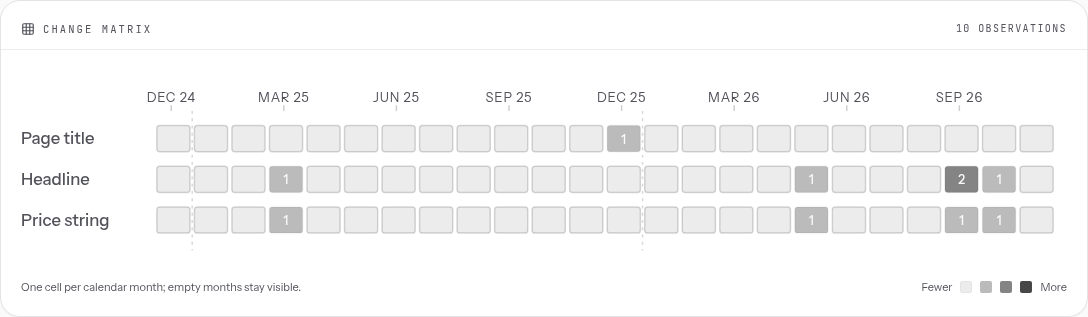
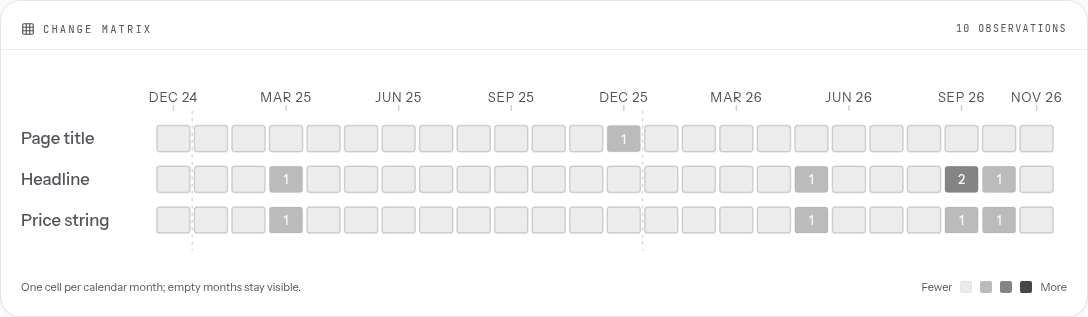
fix: pending source lanes show reading, not an empty result
Address the v0.7 review HOLD:
- before /api/sources resolves, Arquivo.pt and Hacker News are badged reading;
  no rows is reserved for a completed empty provider read
- do not cache a source response containing an unavailable lane, so a transient
  outage is retried on the next open
- Arquivo uses manual redirects; its count is unique rows inspected and the
  provider estimate stays in the note
- matrix labels are cell-centred and include the newest column
- HN chart covers 25 calendar months so bars sum to the two-year total
- fix story pluralisation; document saved-report source freshness

189 tests; axe 0.

diff --git a/src/components/SourcesBoard.tsx b/src/components/SourcesBoard.tsx
@@ -42,6 +42,11 @@ const statusCopy: Record<SourceStatus, { label: string; variant: 'good' | 'outli
   unavailable: { label: 'unread', variant: 'warn' },
 }
 
+const pendingStatus: { label: string; variant: 'good' | 'outline' | 'warn' } = {
+  label: 'reading',
+  variant: 'outline',
+}
+
 function Lane({
   icon,
   title,
@@ -105,7 +110,7 @@ export function SourcesBoard({ timeline }: { timeline: Timeline }) {
 
   const mentions = sources?.mentions
   const archives = sources?.archives
-  const mentionMonths = lastMonths(24)
+  const mentionMonths = lastMonths(25)
   const counts = new Map(mentions?.months.map((month) => [month.month, month.count]) ?? [])
   const peak = Math.max(1, ...mentionMonths.map((month) => counts.get(month) ?? 0))
   const adLinks = adLibraryLinks(timeline.domain)
@@ -122,7 +127,8 @@ export function SourcesBoard({ timeline }: { timeline: Timeline }) {
           </h3>
         </div>
         <p className="max-w-md text-right text-[11px] leading-relaxed text-muted-foreground">
-          Each lane is read separately. A missing answer stays unread — never a zero.
+          Each lane is read separately. A missing answer stays unread — never a zero. Lanes are
+          checked now; only the Wayback timeline is frozen in a saved report.
         </p>
       </div>
 
@@ -149,7 +155,7 @@ export function SourcesBoard({ timeline }: { timeline: Timeline }) {
         <Lane
           icon={<Globe2 className="size-3.5" />}
           title="Arquivo.pt"
-          status={archives ? statusCopy[archives.status] : failed ? statusCopy.unavailable : statusCopy.empty}
+          status={archives ? statusCopy[archives.status] : failed ? statusCopy.unavailable : pendingStatus}
           footer={
             <p className="text-[10.5px] leading-snug text-muted-foreground">
               {archives?.note ?? (failed ? 'Second archive check did not finish.' : 'Reading a second public archive…')}
@@ -185,7 +191,7 @@ export function SourcesBoard({ timeline }: { timeline: Timeline }) {
         <Lane
           icon={<MessagesSquare className="size-3.5" />}
           title="Hacker News"
-          status={mentions ? statusCopy[mentions.status] : failed ? statusCopy.unavailable : statusCopy.empty}
+          status={mentions ? statusCopy[mentions.status] : failed ? statusCopy.unavailable : pendingStatus}
           footer={
             <p className="text-[10.5px] leading-snug text-muted-foreground">
               {mentions?.note ?? (failed ? 'Public-discussion check did not finish.' : 'Reading public story titles…')}
@@ -201,7 +207,7 @@ export function SourcesBoard({ timeline }: { timeline: Timeline }) {
                 {mentionMonths.map((month) => {
                   const count = counts.get(month) ?? 0
                   return (
-                    <div key={month} className="flex-1" title={`${shortMonth(month)}: ${count} story${count === 1 ? '' : 's'}`}>
+                    <div key={month} className="flex-1" title={`${shortMonth(month)}: ${count} ${count === 1 ? 'story' : 'stories'}`}>
                       <div
                         className={count > 0 ? 'w-full rounded-t-[2px] bg-foreground/55' : 'w-full rounded-t-[2px] bg-border'}
                         style={{ height: `${count > 0 ? Math.max(5, (count / peak) * 44) : 2}px` }}
@@ -215,8 +221,9 @@ export function SourcesBoard({ timeline }: { timeline: Timeline }) {
                 <span>{shortMonth(mentionMonths[mentionMonths.length - 1])}</span>
               </div>
               <p className="mt-2 text-[10px] leading-snug text-muted-foreground">
-                Monthly count; bars sum to {mentions.total} across {mentions.months.length} month
-                {mentions.months.length === 1 ? '' : 's'} with at least one story.
+                Monthly count over the last 25 calendar months; bars sum to {mentions.total} across{' '}
+                {mentions.months.length} month{mentions.months.length === 1 ? '' : 's'} with at
+                least one story.
               </p>
             </>
           ) : (

diff --git a/server/arquivo.ts b/server/arquivo.ts
@@ -61,7 +61,7 @@ export async function buildArquivoInfo(
     const response = await fetchImpl(url.toString(), {
       signal: controller.signal,
       headers: { 'user-agent': USER_AGENT },
-      redirect: 'follow',
+      redirect: 'manual',
     })
     if (!response.ok) {
       return empty('unavailable', `Arquivo.pt answered ${response.status}. This lane is unread, not zero.`)
@@ -97,7 +97,7 @@ export async function buildArquivoInfo(
     if (unique.length === 0) {
       return empty(
         'empty',
-        'Arquivo.pt lists no captures for this host. This lane is empty, not proof the page never existed.',
+        'Arquivo.pt lists no captures for this exact URL. This lane is empty, not proof the page never existed.',
       )
     }
 

diff --git a/tests/sources.test.ts b/tests/sources.test.ts
@@ -50,4 +50,15 @@ describe('buildSources', () => {
     expect(report.mentions.total).toBe(1)
     expect(report.archives.count).toBe(1)
   })
+
+  it('isolates a failed Hacker News lane from a readable archive lane', async () => {
+    const failing: FetchLike = async (url) => {
+      if (url.includes('hn.algolia.com')) throw new Error('HN down')
+      return fake(url)
+    }
+    const report = await buildSources('basecamp.com/pricing', { fetchImpl: failing })
+    expect(report.mentions.status).toBe('unavailable')
+    expect(report.archives.status).toBe('read')
+    expect(report.mentions.note).toMatch(/unread, not zero/)
+  })
 })

diff --git a/src/components/ChangeMatrix.tsx b/src/components/ChangeMatrix.tsx
@@ -60,8 +60,8 @@ export function ChangeMatrix({ captures, changes }: { captures: Capture[]; chang
               >
                 <title>Field changes by calendar month</title>
                 {matrix.months.map((month, index) => {
-                  if (index % 3 !== 0) return null
-                  const x = LABEL_W + index * slot + cellW / 2
+                  if (index % 3 !== 0 && index !== matrix.months.length - 1) return null
+                  const x = LABEL_W + index * slot + 1.5 + cellW / 2
                   return (
                     <g key={`label-${month.key}`}>
                       <text

diff --git a/server/api.ts b/server/api.ts
@@ -289,7 +289,9 @@ export function createApi(options: ApiOptions = {}) {
             fetchImpl: buildOptions.fetchImpl,
             timeoutMs: buildOptions.timeoutMs,
           })
-          remember(sourceCache, key, JSON.stringify(sources), cacheSize)
+          if (sources.mentions.status !== 'unavailable' && sources.archives.status !== 'unavailable') {
+            remember(sourceCache, key, JSON.stringify(sources), cacheSize)
+          }
           res.setHeader('x-cache', 'miss')
           send(res, 200, sources, { 'cache-control': 'public, max-age=300' })
         } catch (error) {

diff --git a/docs/SPEC.md b/docs/SPEC.md
@@ -39,7 +39,7 @@ When I need to show what a competitor changed on a public page, I want a dated l
 - **Monthly price range:** one bar per calendar month in which monthly (`/mo`, `/month`) price strings were read. The x-axis keeps one slot per month, so empty months are visible gaps. Each bar is the min–max of those strings; annual, one-time and per-seat amounts are excluded. A triangle above the plot marks a month with a price-change row. With fewer than two such months the chart is not rendered.
 - **Change matrix:** one cell per field (`title`, `headline`, `price`) per calendar month, baseline excluded. Empty months stay visible. Shade encodes the number of observations in that field/month, not a price, a trend or a growth rate.
 - **Evidence lanes:** independent public lanes for Internet Archive (dated page evidence), Arquivo.pt (second archive index), Hacker News (public stories whose submitted URL host matches the target), sitemap (page count), and ad libraries (manual links). A lane is `read`, `no rows` or `unread`; an unavailable lane is never a zero. Only the Internet Archive lane feeds the dated changes.
-- **Mentions chart:** monthly count of matched HN stories over the last 24 months, with the top stories linked. It is public discussion, not a truth score or a complete count.
+- **Mentions chart:** monthly count of matched HN stories over the last 25 calendar months, with the top stories linked. It is public discussion, not a truth score or a complete count.
 - **Archived page view:** an opt-in sandboxed iframe of the selected capture's `web.archive.org` URL. It is a rendering of archived HTML, not a pixel screenshot, and creates no new claim. No server-side browser, no screenshot service, no proxying.
 - **Ad libraries:** four external, pre-filled links to public ad libraries (Meta, Google, TikTok, LinkedIn). The server never fetches them. They are not evidence rows and do not imply spend. There is no free official API for general US commercial ads; an optional licensed provider is the only future automatic path.
 - **Citation:** coverage window, captures read, field changes (baseline excluded), access date, source link.
@@ -119,7 +119,7 @@ When I need to show what a competitor changed on a public page, I want a dated l
 | Change matrix | `tests/changeMatrix.test.ts` (2 tests) |
 | HN link-match lane | `tests/mentions.test.ts` (3 tests) |
 | Arquivo.pt index lane | `tests/arquivo.test.ts` (2 tests) |
-| Source-lane router | `tests/sources.test.ts` (1 test) |
+| Source-lane router | `tests/sources.test.ts` (2 tests) |
 | Archived URL guard | `tests/archiveUrl.test.ts` (2 tests) |
 | Ad links | `tests/adlinks.test.ts` (3 tests) |
 | Citation text | `tests/citation.test.ts` (2 tests) |

diff --git a/CHANGELOG.md b/CHANGELOG.md
@@ -27,8 +27,7 @@ separate from the context.
   with explicit statuses and notes.
 - **Change matrix.** A calendar heatmap of page-title, headline and price-string
   observations by month. The baseline is excluded; empty months stay visible.
-- **Mentions chart.** Monthly matched-story counts over the last 24 months, tied
-  to the cited story list.
+- **Mentions chart.** Monthly matched-story counts over the last 25 calendar months, tied to the cited story list.
 
 ### Changed
 
@@ -38,9 +37,9 @@ separate from the context.
 
 ### Evidence
 
-- 188 unit tests: 51 core, 16 handler, 6 sitemap, 7 store, 50 live, 5 export,
+- 189 unit tests: 51 core, 16 handler, 6 sitemap, 7 store, 50 live, 5 export,
   14 contract, 16 compare, 2 citation, 3 ad-link, 2 archive-url, 8 price-axis,
-  3 mentions, 2 Arquivo, 1 source router, 2 change-matrix.
+  3 mentions, 2 Arquivo, 2 source router, 2 change-matrix.
 - `pnpm check` green; independent review of the exact release tree.
 - axe-core WCAG 2.1 A/AA: 0 violations on the report.
 - Live source check: `basecamp.com/pricing` → 17 HN stories, Arquivo.pt estimate

diff --git a/docs/EVIDENCE.md b/docs/EVIDENCE.md
@@ -80,7 +80,7 @@ tests.
 - **Change matrix:** one cell per field per calendar month; the baseline is excluded.
   Darker means more observations in that month, not a larger price or a growth rate.
 - **Site size:** sitemap page count and dated additions; `lastmod` is self-reported.
-- **Mentions:** monthly count of matched public HN stories over the last 24 months;
+- **Mentions:** monthly count of matched public HN stories over the last 25 calendar months;
   bars sum to the matched total. A month with no bar is a month with no matched story,
   not proof that no one discussed the company.
 - **Price axis:** 1/2/5 × 10^n ticks, so a page in the thousands stays readable.

diff --git a/README.md b/README.md
@@ -315,7 +315,7 @@ Source matrix, planned adapters and the inclusion rule for adding a source: [`do
 | `pnpm dev` | Dev server with HMR and the API |
 | `pnpm build` | Type-check and build to `dist/` |
 | `pnpm start` | Serve the production build with the API |
-| `pnpm test` | 188 unit tests (vitest) |
+| `pnpm test` | 189 unit tests (vitest) |
 | `pnpm lint` | oxlint |
 | `pnpm a11y` | axe-core scan of a running build (0 violations at v0.7.0) |
 | `pnpm check` | lint + test + build |
